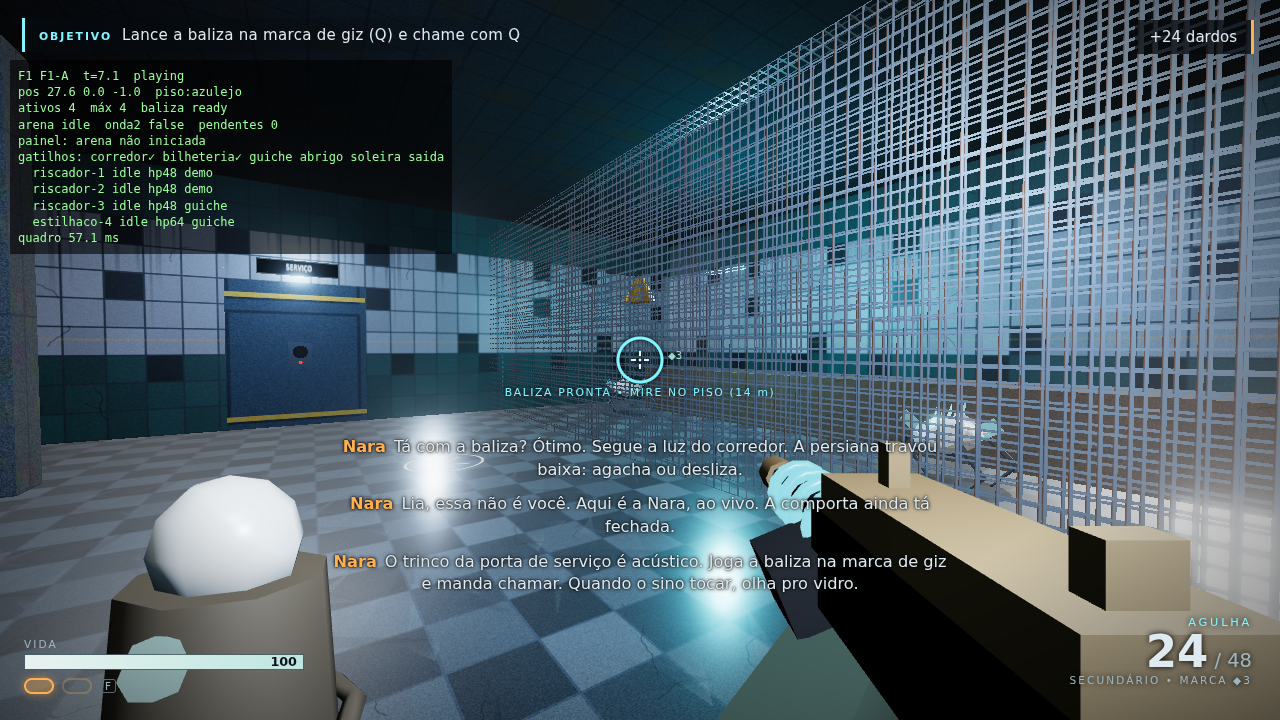
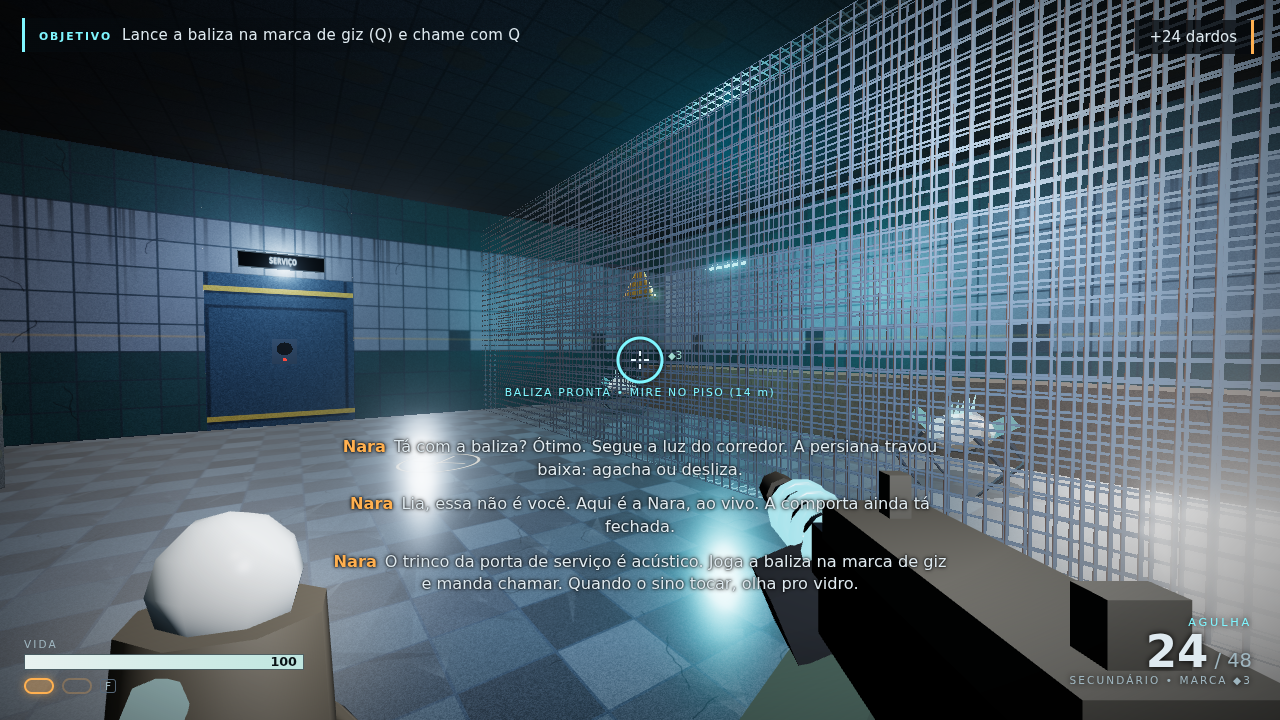
Arte: azulejos menos ruidosos, Agulha e baliza de mão com metal escuro

diff --git a/src/render/renderer.ts b/src/render/renderer.ts
@@ -187,8 +187,8 @@ export class Renderer {
     this.vmCamera.add(this.vm.root);
     this.vm.root.position.set(0.17, -0.17, -0.34);
     this.vmCamera.add(this.vmBeacon.root);
-    this.vmBeacon.root.position.set(-0.24, -0.2, -0.38);
-    this.vmBeacon.root.scale.setScalar(0.9);
+    this.vmBeacon.root.position.set(-0.27, -0.24, -0.42);
+    this.vmBeacon.root.scale.setScalar(0.7);
     this.vmScene.add(new THREE.HemisphereLight(0x8fb0d0, 0x202020, 1.4));
     const key = new THREE.DirectionalLight(0xffffff, 1.2); key.position.set(1, 2, 1); this.vmScene.add(key);
     this.vmCamera.add(this.vmLight); this.vmLight.position.set(0.3, 0.3, 0);
@@ -812,7 +812,7 @@ export class Renderer {
     this.vm.coils.forEach((c, i) => ((c.material as THREE.MeshStandardMaterial).emissiveIntensity = 1.2 + Math.sin(this.time * 6 + i) * 0.4 + this.recoil * 3));
     // baliza na mão esquerda
     const ty = -0.2 - (this.throwAnim > 0 ? Math.sin((this.throwAnim / 0.4) * Math.PI) * 0.1 : 0) + bob;
-    this.vmBeacon.root.position.set(-0.24, ty, -0.38);
+    this.vmBeacon.root.position.set(-0.27, ty - 0.04, -0.42);
     const ready = sim.beacon.state === "ready";
     (this.vmBeacon.light.material as THREE.MeshBasicMaterial).color.set(ready ? 0x7ff6ff : 0x305060);
     // luz do viewmodel aproxima a iluminação local

diff --git a/src/render/models.ts b/src/render/models.ts
@@ -169,8 +169,8 @@ export function buildAgulha(): { root: THREE.Group; mag: THREE.Mesh; coils: THRE
 /** Emissor da baliza (mão esquerda e mundo). */
 export function buildBeaconDevice(): { root: THREE.Group; light: THREE.Mesh } {
   const root = new THREE.Group();
-  const shell = new THREE.MeshStandardMaterial({ color: 0x7a6a55, roughness: 0.6, metalness: 0.3 });
-  const cer = new THREE.MeshStandardMaterial({ color: 0xe6dfd0, roughness: 0.3 });
+  const shell = new THREE.MeshStandardMaterial({ color: 0x4a4238, roughness: 0.6, metalness: 0.5 });
+  const cer = new THREE.MeshStandardMaterial({ color: 0x6d7378, roughness: 0.55, metalness: 0.3, emissive: 0x0d3440, emissiveIntensity: 0.6 });
   const a = new THREE.Mesh(new THREE.CylinderGeometry(0.06, 0.07, 0.14, 8), shell);
   const b = new THREE.Mesh(new THREE.SphereGeometry(0.045, 8, 6), cer); b.position.y = 0.09;
   const light = new THREE.Mesh(new THREE.SphereGeometry(0.018, 6, 4), new THREE.MeshBasicMaterial({ color: 0x7ff6ff }));
